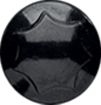
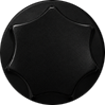
0.5.2: the new DATA encoder knob
Claude-Session: https://claude.ai/code/session_012PdoQHd6zQKzaDEM1R92LK

diff --git a/CHANGELOG.md b/CHANGELOG.md
@@ -1,5 +1,8 @@
 # Changelog
 
+## 0.5.2
+- The DATA encoder's new knob (matte, by Suns Kiefer).
+
 ## 0.5.1
 - PARAMETERS column: bigger names and values (25 px, was 17) and heading.
 

diff --git a/README.md b/README.md
@@ -1,4 +1,4 @@
-# LXRXXL v0.5.1
+# LXRXXL v0.5.2
 
 ![LXRXXL on MPC](docs/img/page.png)
 
